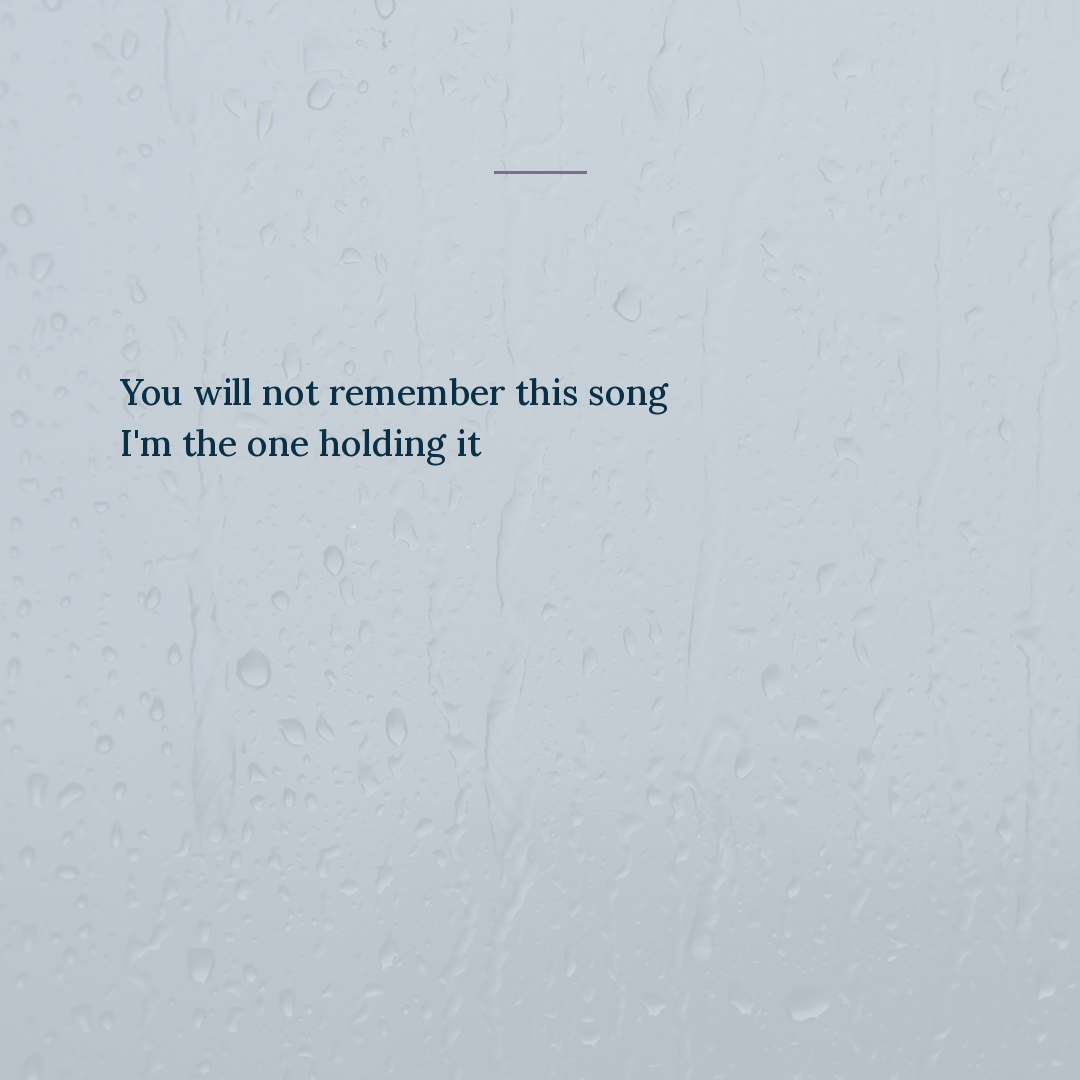
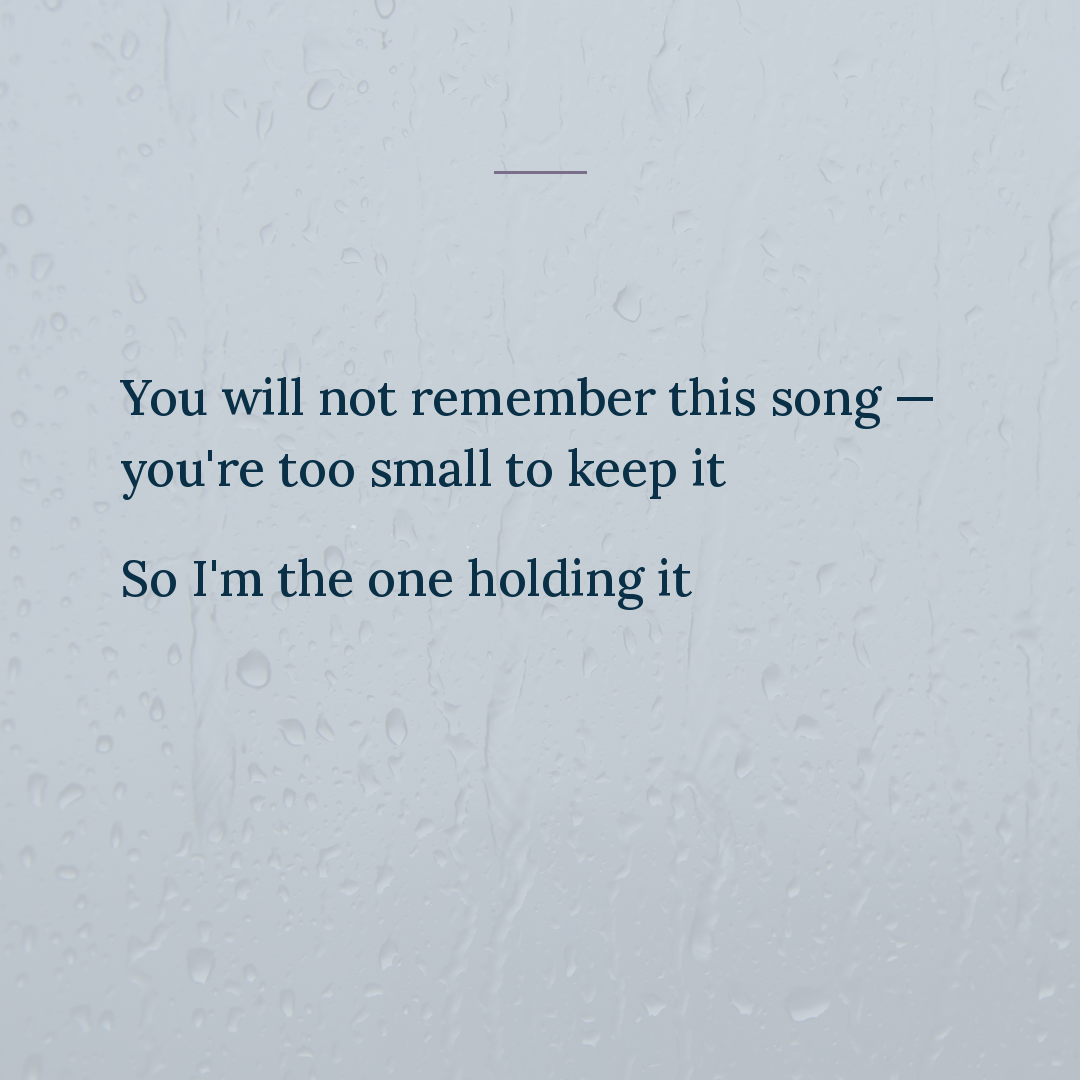
Add insp-05-you-wont-remember-the-song (INSP 05 - You Wont Remember The Song)

Changed region(s): [[0.0917, 0.3361, 0.825, 0.4583], [0.0917, 0.5194, 0.6417, 0.5806]]

diff --git a/posts/insp-05-you-wont-remember-the-song/slides.md b/posts/insp-05-you-wont-remember-the-song/slides.md
@@ -1,37 +1,91 @@
 # INSP 05 - You Wont Remember The Song
 
 Format: carousel · bg lavender #E6DFED · lane Inspired · mechanism 2 · The Sound That Leaves ·
-destination lullaby/voice · treatment poem + LOCKED website CTA card · 3 slides ·
+destination lullaby/voice · treatment poem + LOCKED website CTA card · 5 slides ·
 CTA **Website** · slot PM · counts toward the product-forward group
 
 Source: @notes.from.motherhood 2026-06-19 "The lullaby was never meant for you" — 97K views, 16.6x
 median, ER 11.3. The closest post in the whole 420-post log to Drift's own thesis.
 
-CTA NOTE — RESOLVED 2026-08-30: this used to say slide 3 was render_cta's LOCKED default ask/url.
-That convention died 2026-08-27 (drift-website-cta-locked) — render_cta now raises without an
-explicit `main`. slide-3.png on disk predates that change and needs a re-render. Wrote a real
-per-post Eyebrow/Ask pair below instead of guessing at Ben's intent for the caption's ask (he
-confirmed 2026-08-30 that the caption itself carries no ask — the card is the only place this post
-points at the site) — this pair has NOT been individually reviewed by Ben, only the caption. Flag it
-in the next round if it doesn't land.
+CTA NOTE — RESOLVED 2026-08-30: this used to say the CTA card was render_cta's LOCKED default
+ask/url. That convention died 2026-08-27 (drift-website-cta-locked) — render_cta now raises without
+an explicit `main`. Wrote a real per-post Eyebrow/Ask pair below instead of guessing at Ben's intent
+for the caption's ask (he confirmed 2026-08-30 that the caption itself carries no ask — the card is
+the only place this post points at the site).
+
+EXPANDED 2026-08-30 (Ben: "expand it") — the original 2-poem-frame + CTA card (3 slides) buried the
+caption's strongest imagery ("The way your breathing slows by the third line," "your hand lets go of
+my shirt," "your chest will go quiet, and you won't know why") in the caption only; Ben's point was
+that the caption *is supposed to be the post* — those lines needed to be ON the slides, not just
+narrating them from off-screen. First pass expanded the poem to 7 single-line-pair frames pulling
+the caption's images onto the visuals (mirroring how INSP 06 was expanded from 2→6 frames the same
+day). Ben then asked to COMBINE 1-2, 3-4, 5-6 back down into 3 fuller stanza-frames (frame 7
+unchanged) — same words, same caption, denser pacing: 4 poem frames + CTA = 5 slides. Caption itself
+is unchanged throughout; slides match it instead of only gesturing at it.
 
 This is one of the few posts in the lane where the website bridge is honest — the poem lands on
 keeping the song, which is what Drift makes. Do NOT bolt this CTA onto the other six.
 
 ## Hook
-You will not remember this song / I'm the one holding it
+You will not remember this song — you're too small to keep it / So I'm the one holding it
 
 ## Slides
-1  You will not remember this song / I'm the one holding it
-2  I'm singing it for a Tuesday a long way from here / you'll remember being safe
-*Slide 3 (the CTA card) is documented under Closer below, not here — keeping it out of this list
-so the review workbook doesn't show it as a 3rd content item.*
+1  You will not remember this song — you're too small to keep it / So I'm the one holding it
+2  The way your breathing slows by the third line / The way your hand lets go of my shirt
+3  One day you'll hear four notes somewhere ordinary / And your chest will go quiet, and you won't know why
+4  You won't remember the song. You'll remember being safe.
+*Slide 5 (the CTA card) is documented under Closer below, not here — keeping it out of this list
+so the review workbook doesn't show it as a 5th content item.*
+
+Authored line breaks that actually render (flat "/"-joined text above is for the review-workbook
+parser only):
+
+```
+Slide 1:
+You will not remember this song —
+you're too small to keep it
+
+So I'm the one holding it
+
+Slide 2:
+The way your breathing slows
+by the third line
+
+The way your hand lets go
+of my shirt
+
+Slide 3:
+One day you'll hear four notes
+somewhere ordinary
+
+And your chest will go quiet,
+and you won't know why
+
+Slide 4:
+You won't remember the song.
+You'll remember being safe.
+```
+
+Blank line marks the seam where the original combine happened (Ben, 2026-08-30: "it needs a space in
+between lines where you had originally broken up the slides") — a stanza break, not a new size fit.
+Re-ran `fit_poem` with the gap lines included; still fits at 50px, so no other slide moved.
 
 ## Closer (website — pill card)
 Ask: "When you're ready, make them their own lullaby"
-*Ben's edit (2026-08-30): no eyebrow, just the ask + LINK IN BIO pill. Replaces the eyebrow/ask
-pair I drafted, which he had not yet seen when he asked to see the copy.*
+*Ben's edit (2026-08-30): no eyebrow, just the ask + LINK IN BIO pill.*
 
-Rendered slide-1..slide-2 at 44 px (poem treatment, `drift_inspired.render_poem_post`, bg lavender,
-photo=True); slide-3 via `drift_slides.render_cta` with no eyebrow, the ask above as `main`, centred,
-no url passed (render_cta draws the LINK IN BIO pill itself).
+Rendered slide-1..slide-4 at 50 px (poem treatment, `drift_inspired.render_poem_slide`, mist bg +
+navy text, one size fitted across all 4 frames — same 50px the original 7-frame cut fit to, since
+the width-limiting line ("You will not remember this song —") didn't change). slide-5 is a one-off
+CTA render (NOT `render_cta`/`render_photo_cta` directly — see below) built to match the poem
+frames exactly: `drift_slides._photo_canvas(POETRY_BG_PATH)` for the same mist background, the ask
+set at the poem's fitted size (50px, not render_cta's own 44-62px auto-fit range) and weight 650,
+centred, with `drift_slides._draw_pill` for the LINK IN BIO pill. render_photo_cta was close (same
+default background) but draws a URL line, not this post's pill, and doesn't accept a pinned font
+size — so this one-off mirrors its layout instead of extending the shared function, per the
+established pattern for one-off deviations (see INSP 04's no-rule special case).
+
+Two stray files sit in this folder from the earlier 7-frame pass, renamed out of the `slide-*.png`
+glob so no pipeline script picks them up (workspace blocks `rm`, only `mv`): `_orphan_do_not_use.png`,
+`old-slide-6.png`, `old-slide-7.png`, `old-slide-8-cta.png`. All harmless; delete manually if they
+bother you.
